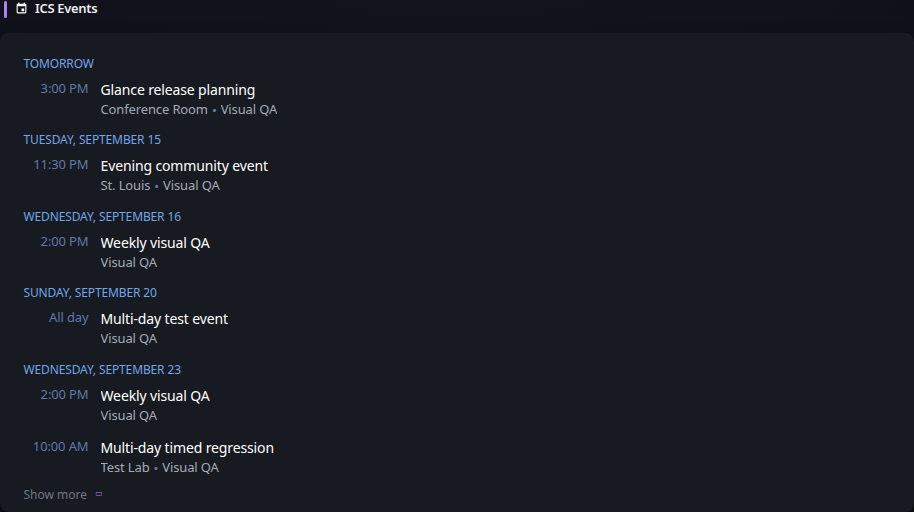
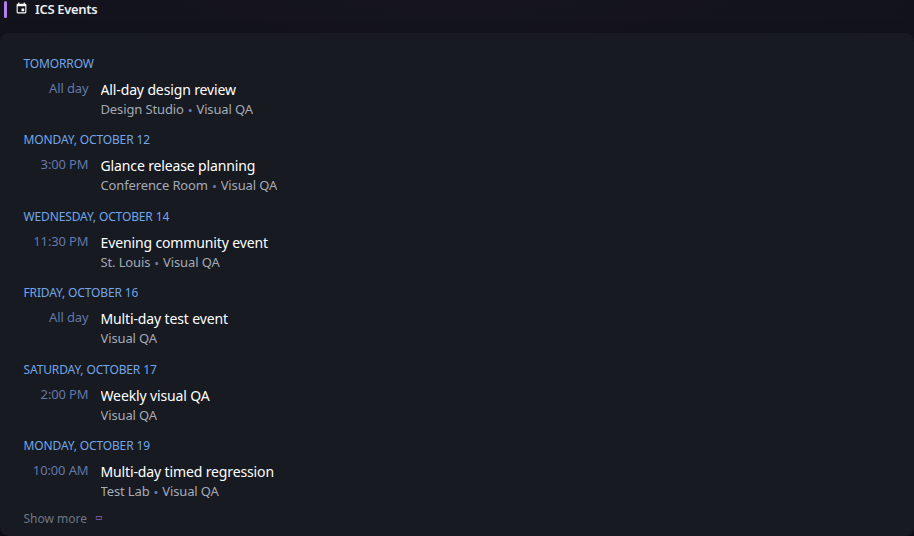
test: add deterministic visual fixtures for calendar and Dilbert

diff --git a/testdata/visual/frontend-check.js b/testdata/visual/frontend-check.js
@@ -1560,9 +1560,42 @@ async function main() {
       );
     }
 
-    const fixtureCalendarMonth = '2026-09';
+    const fixtureCalendarText = require("fs").readFileSync(
+      "testdata/visual/generated-calendar.ics",
+      "utf8"
+    );
+
+    const fixtureEventBlock = fixtureCalendarText
+      .split("BEGIN:VEVENT")
+      .find(block => block.includes("SUMMARY:Multi-day timed regression"));
+
+    if (!fixtureEventBlock) {
+      throw new Error("Multi-day timed regression fixture event is missing");
+    }
+
+    const fixtureStartMatch = fixtureEventBlock.match(
+      /^DTSTART:(\d{8})T/m
+    );
+    const fixtureEndMatch = fixtureEventBlock.match(
+      /^DTEND:(\d{8})T/m
+    );
+
+    if (!fixtureStartMatch || !fixtureEndMatch) {
+      throw new Error("Multi-day timed regression fixture dates are invalid");
+    }
+
+    const formatFixtureDate = value =>
+      `${value.slice(0, 4)}-${value.slice(4, 6)}-${value.slice(6, 8)}`;
+
+    const fixtureStartDate = formatFixtureDate(fixtureStartMatch[1]);
+    const fixtureEndDate = formatFixtureDate(fixtureEndMatch[1]);
+    const fixtureCalendarMonth = fixtureStartDate.slice(0, 7);
+
     const previousCalendarButton = calendar.locator(
       'button[aria-label="Previous month"]'
+    );
+    const nextCalendarButton = calendar.locator(
+      'button[aria-label="Next month"]'
     );
 
     for (let attempts = 0; attempts < 120; attempts++) {
@@ -1574,13 +1607,15 @@ async function main() {
         break;
       }
 
-      if (!displayedMonth || displayedMonth < fixtureCalendarMonth) {
-        throw new Error(
-          `Calendar cannot navigate backward from ${displayedMonth} to fixture month ${fixtureCalendarMonth}`
-        );
+      if (!displayedMonth) {
+        throw new Error("Calendar displayed month is missing");
       }
 
-      await previousCalendarButton.click();
+      if (displayedMonth < fixtureCalendarMonth) {
+        await nextCalendarButton.click();
+      } else {
+        await previousCalendarButton.click();
+      }
     }
 
     const fixtureDisplayedMonth = await calendar.getAttribute(
@@ -1593,7 +1628,7 @@ async function main() {
       );
     }
 
-    await calendar.locator('[data-calendar-date="2026-09-23"]').click();
+    await calendar.locator(`[data-calendar-date="${fixtureStartDate}"]`).click();
 
     const timedCalendarEvent = calendar.locator('.calendar-event', {
       hasText: 'Multi-day timed regression'
@@ -1611,7 +1646,7 @@ async function main() {
       throw new Error('Calendar timed event incorrectly used continuation layout');
     }
 
-    await calendar.locator('[data-calendar-date="2026-09-24"]').click();
+    await calendar.locator(`[data-calendar-date="${fixtureEndDate}"]`).click();
 
     const continuedCalendarEvent = calendar.locator('.calendar-event', {
       hasText: 'Multi-day timed regression'

diff --git a/testdata/visual/screenshots.js b/testdata/visual/screenshots.js
@@ -232,6 +232,38 @@ async function captureMobileViewport(page, output, viewport = qaViewport) {
   }
 }
 
+async function waitForDilbertImage(page, locator) {
+  const isDilbert = await locator.evaluate(element =>
+    element.classList.contains("visual-fixture-dilbert")
+  );
+
+  if (!isDilbert) return;
+
+  const image = locator.locator(".dilbert-comic-image");
+  await image.waitFor({ state: "visible", timeout: 15000 });
+  await image.scrollIntoViewIfNeeded();
+
+  try {
+    await image.evaluate(element => {
+      if (!element.complete) {
+        element.loading = "eager";
+      }
+    });
+
+    await page.waitForFunction(() => {
+      const image = document.querySelector(
+        ".visual-fixture-dilbert .dilbert-comic-image"
+      );
+      return image && image.complete &&
+        image.naturalWidth > 0 && image.naturalHeight > 0;
+    }, null, { timeout: 15000 });
+  } catch (error) {
+    throw new Error(
+      `Dilbert screenshot image failed to load: ${error.message}`
+    );
+  }
+}
+
 async function captureMobileWidget(page, locator, output, viewport = QA_VIEWPORTS.mobile) {
   const columnIndex = await locator.evaluate(element => {
     const column = element.closest(".page-columns > .page-column");
@@ -299,6 +331,7 @@ async function captureMobileWidget(page, locator, output, viewport = QA_VIEWPORT
       );
     }
 
+    await waitForDilbertImage(page, locator);
     await captureMobileViewport(page, output, viewport);
   } finally {
     if (spacer) {
@@ -614,6 +647,7 @@ async function captureDocs(browser) {
             await revealNestedGroupContent(locator);
           }
           await locator.waitFor({ state: "visible", timeout: 15000 });
+          await waitForDilbertImage(page, locator);
           await locator.screenshot({ path: output });
         }
       } else if (recipe.capture === 'page') {

diff --git a/testdata/visual/fixture-server.js b/testdata/visual/fixture-server.js
@@ -513,6 +513,33 @@ const server = http.createServer((req, res) => {
     return;
   }
 
+
+  if (url.pathname === "/web/20200615/http://dilbert.com/strip/2020-06-15") {
+    res.writeHead(200, { "Content-Type": "text/html; charset=utf-8" });
+    res.end(
+      "<!doctype html><html><body>" +
+      "<div class=\"comic-item-container js-comic\" " +
+      "data-id=\"2020-06-15\" data-title=\"Visual QA Office Comic\">" +
+      "<img class=\"img-responsive img-comic\" width=\"900\" height=\"300\" " +
+      "src=\"/visual-dilbert/comic.png\">" +
+      "</div></body></html>"
+    );
+    return;
+  }
+
+  if (url.pathname === "/visual-dilbert/comic.png") {
+    const image = fs.readFileSync(
+      path.join(__dirname, "dilbert-comic.png")
+    );
+    res.writeHead(200, {
+      "Content-Type": "image/png",
+      "Content-Length": image.length,
+      "Cache-Control": "public, max-age=3600"
+    });
+    res.end(image);
+    return;
+  }
+
   res.writeHead(404, { 'Content-Type': 'text/plain' });
   res.end('Not found');
 });

diff --git a/testdata/visual/generate-calendar.py b/testdata/visual/generate-calendar.py
@@ -1,0 +1,103 @@
+#!/usr/bin/env python3
+"""Generate date-relative Calendar and ICS Events visual fixtures."""
+
+from datetime import datetime, timedelta
+from pathlib import Path
+
+
+OUTPUT = Path(__file__).with_name("generated-calendar.ics")
+
+
+def date_value(day):
+    return day.strftime("%Y%m%d")
+
+
+def utc_value(day, hour, minute=0):
+    return day.strftime("%Y%m%d") + f"T{hour:02d}{minute:02d}00Z"
+
+
+def floating_value(day, hour, minute=0):
+    return day.strftime("%Y%m%d") + f"T{hour:02d}{minute:02d}00"
+
+
+def event(uid, start, end, summary, *, location=None, url=None, rule=None):
+    lines = [
+        "BEGIN:VEVENT",
+        f"UID:{uid}@glance",
+        f"DTSTART{start}",
+        f"DTEND{end}",
+        f"SUMMARY:{summary}",
+    ]
+    if location:
+        lines.append(f"LOCATION:{location}")
+    if url:
+        lines.append(f"URL:{url}")
+    if rule:
+        lines.append(f"RRULE:{rule}")
+    lines.append("END:VEVENT")
+    return lines
+
+
+def generate(today):
+    day = lambda offset: today + timedelta(days=offset)
+    lines = [
+        "BEGIN:VCALENDAR",
+        "VERSION:2.0",
+        "PRODID:-//Glance Visual QA//EN",
+        "CALSCALE:GREGORIAN",
+    ]
+
+    lines += event(
+        "visual-qa-1",
+        ";VALUE=DATE:" + date_value(day(1)),
+        ";VALUE=DATE:" + date_value(day(2)),
+        "All-day design review",
+        location="Design Studio",
+        url="https://github.com/samcro1967/glance",
+    )
+    lines += event(
+        "visual-qa-2",
+        ":" + utc_value(day(2), 15),
+        ":" + utc_value(day(2), 16, 30),
+        "Glance release planning",
+        location="Conference Room",
+    )
+    lines += event(
+        "visual-qa-3",
+        ":" + utc_value(day(4), 23, 30),
+        ":" + utc_value(day(5), 1, 30),
+        "Evening community event",
+        location="St. Louis",
+    )
+    lines += event(
+        "visual-qa-4",
+        ";VALUE=DATE:" + date_value(day(6)),
+        ";VALUE=DATE:" + date_value(day(9)),
+        "Multi-day test event",
+    )
+    lines += event(
+        "visual-qa-continuation",
+        ":" + floating_value(day(9), 10),
+        ":" + floating_value(day(10), 11),
+        "Multi-day timed regression",
+        location="Test Lab",
+    )
+    lines += event(
+        "visual-qa-recurring",
+        ":" + utc_value(day(0), 14),
+        ":" + utc_value(day(0), 14, 30),
+        "Weekly visual QA",
+        rule="FREQ=WEEKLY;COUNT=6",
+    )
+
+    lines.append("END:VCALENDAR")
+    return "\r\n".join(lines) + "\r\n"
+
+
+def main():
+    OUTPUT.write_bytes(generate(datetime.now().date()).encode("utf-8"))
+    print(f"Generated visual calendar: {OUTPUT}")
+
+
+if __name__ == "__main__":
+    main()

diff --git a/testdata/visual/README.md b/testdata/visual/README.md
@@ -6,7 +6,8 @@ The visual QA configuration mirrors the eight widget categories in `docs/widgets
 
 - `test-instance.yml` is the complete local visual QA dashboard.
 - `testdata/expanded-theme.yml` owns the expanded global theme fixture.
-- `testdata/screenshot-calendar.ics` provides deterministic calendar content.
+- `testdata/screenshot-calendar.ics` preserves the original reference calendar.
+- `testdata/visual/generate-calendar.py` generates the date-relative `generated-calendar.ics` for Calendar and ICS Events during test-instance startup. The generated file is ignored by Git and removed during cleanup.
 - `widget-gallery.json` classifies every registered widget exactly once.
 - `visual-pages.json` lists the canonical pages captured by browser QA.
 - `docs-images.json` explicitly lists documentation PNGs managed by automation.
